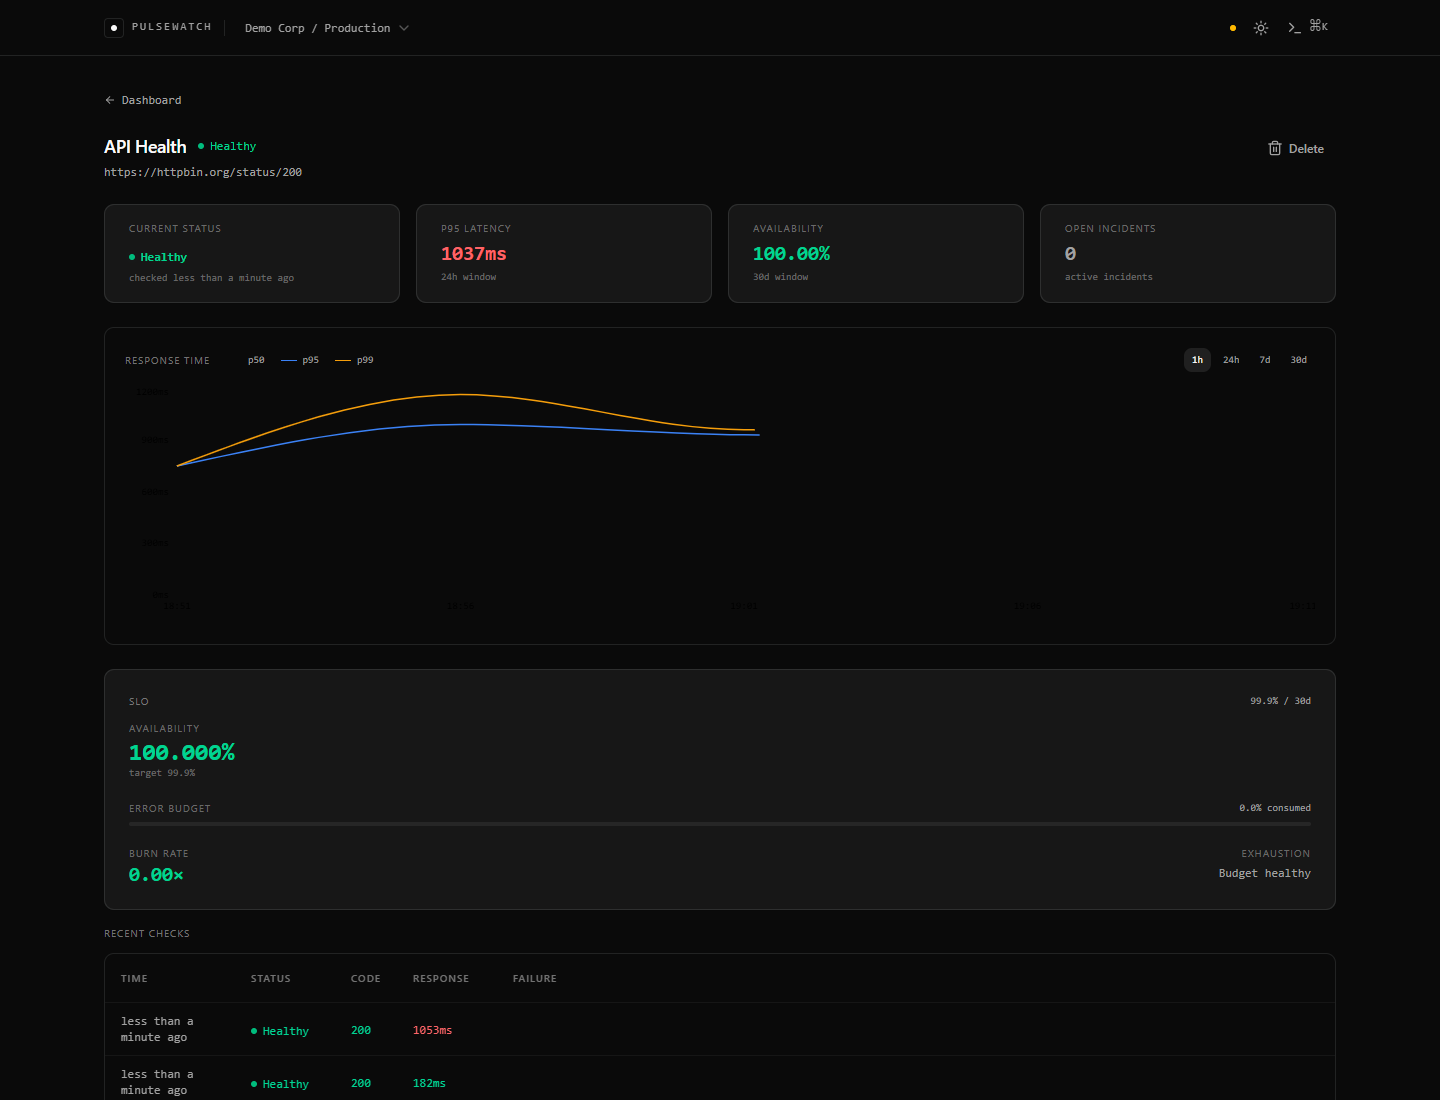
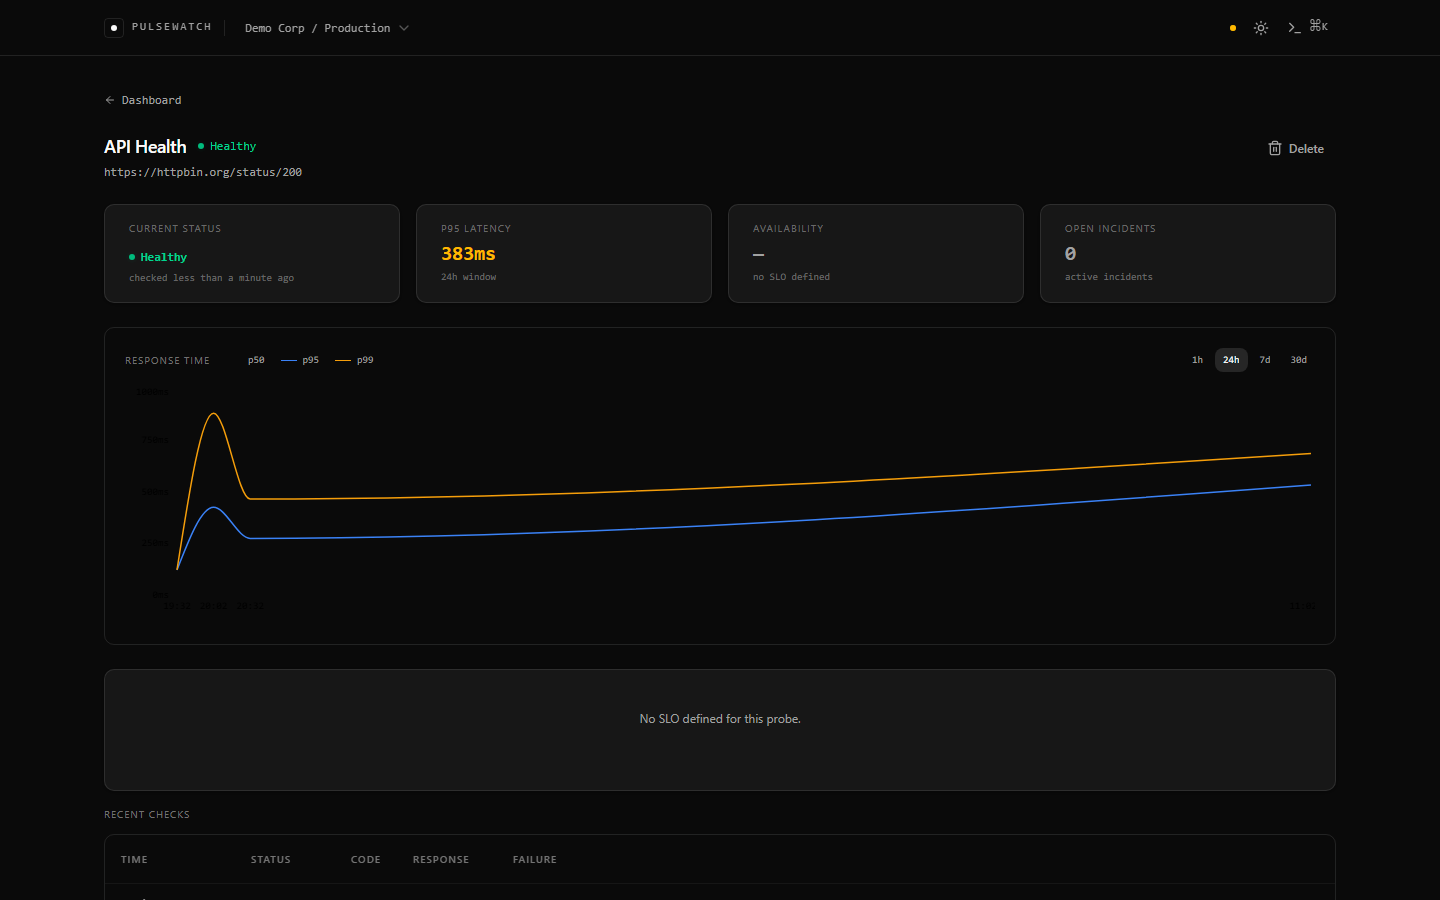
docs: portfolio screenshots from live deployment

diff --git a/client/playwright/scripts/take-screenshots.spec.ts b/client/playwright/scripts/take-screenshots.spec.ts
@@ -1,0 +1,96 @@
+/**
+ * One-off screenshot script — run with:
+ *   npx playwright test --config=playwright.screenshots.config.ts
+ *
+ * Requires the live site at pulsewatch-ui.onrender.com to be up with demo data.
+ * Saves PNG files to docs/screenshots/ (relative to repo root).
+ */
+import { test, chromium, request as playwrightRequest } from '@playwright/test'
+import path from 'path'
+import { mkdir } from 'fs/promises'
+
+const SITE = 'https://pulsewatch-ui.onrender.com'
+const API  = 'https://pulsewatch-v074.onrender.com'
+const OUT  = path.resolve(process.cwd(), '../docs/screenshots')
+
+test.setTimeout(120_000)
+
+test('take all portfolio screenshots', async () => {
+  await mkdir(OUT, { recursive: true })
+
+  // ── 1. Discover org / project / probe IDs via server-side request ─────────
+  const apiCtx = await playwrightRequest.newContext({ baseURL: API })
+
+  const orgs: { id: string }[] = await (await apiCtx.get('/api/v1/organizations')).json()
+  if (!orgs.length) throw new Error('No organizations found on live instance')
+
+  const orgId = orgs[0].id
+  const projects: { id: string }[] = await (
+    await apiCtx.get(`/api/v1/organizations/${orgId}/projects`)
+  ).json()
+  const projId = projects[0].id
+
+  const probes: { id: string; name: string }[] = await (
+    await apiCtx.get(`/api/v1/projects/${projId}/probes`)
+  ).json()
+  console.log('Probes found:', probes.map(p => p.name))
+
+  // Use status page snapshot to identify which probes are Down vs Healthy
+  const snapshot: { probes: { id: string; status: string }[] } = await (
+    await apiCtx.get('/public/status/demo')
+  ).json()
+  const downProbeId   = snapshot.probes.find(p => p.status === 'Down')?.id   ?? probes[probes.length - 1].id
+  const healthyProbeId = snapshot.probes.find(p => p.status === 'Healthy')?.id ?? probes[0].id
+  console.log('Down probe:',    probes.find(p => p.id === downProbeId)?.name)
+  console.log('Healthy probe:', probes.find(p => p.id === healthyProbeId)?.name)
+
+  await apiCtx.dispose()
+
+  // ── 2. Browser setup: inject localStorage before any page load ────────────
+  const browser = await chromium.launch({ headless: true })
+  const ctx = await browser.newContext({
+    viewport: { width: 1440, height: 900 },
+    colorScheme: 'dark',
+  })
+
+  // addInitScript fires before React initialises — localStorage is ready
+  await ctx.addInitScript(({ o, p }: { o: string; p: string }) => {
+    localStorage.setItem('pw-org-id', o)
+    localStorage.setItem('pw-project-id', p)
+  }, { o: orgId, p: projId })
+
+  const page = await ctx.newPage()
+
+  // ── 3. Status page ────────────────────────────────────────────────────────
+  await page.goto(`${SITE}/#/p/demo`, { waitUntil: 'networkidle', timeout: 60_000 })
+  await page.waitForTimeout(1500)
+  await page.screenshot({ path: path.join(OUT, 'status-page.png') })
+  console.log('✓ status-page.png')
+
+  // ── 4. Dashboard ──────────────────────────────────────────────────────────
+  await page.goto(`${SITE}/#/dashboard`, { waitUntil: 'networkidle', timeout: 60_000 })
+  await page.waitForTimeout(2500)
+  await page.screenshot({ path: path.join(OUT, 'dashboard.png') })
+  console.log('✓ dashboard.png')
+
+  // ── 5. Healthy probe detail ───────────────────────────────────────────────
+  await page.goto(`${SITE}/#/probes/${healthyProbeId}`, { waitUntil: 'networkidle', timeout: 60_000 })
+  await page.waitForTimeout(2500)
+  await page.screenshot({ path: path.join(OUT, 'probe-detail.png') })
+  console.log(`✓ probe-detail.png  (${probes.find(p => p.id === healthyProbeId)?.name})`)
+
+  // ── 6. Down probe detail ──────────────────────────────────────────────────
+  await page.goto(`${SITE}/#/probes/${downProbeId}`, { waitUntil: 'networkidle', timeout: 60_000 })
+  await page.waitForTimeout(2500)
+  await page.screenshot({ path: path.join(OUT, 'probe-detail-outage.png') })
+  console.log(`✓ probe-detail-outage.png  (${probes.find(p => p.id === downProbeId)?.name})`)
+
+  // ── 7. Scalar API docs ────────────────────────────────────────────────────
+  await page.goto(`${API}/scalar`, { waitUntil: 'networkidle', timeout: 60_000 })
+  await page.waitForTimeout(2000)
+  await page.screenshot({ path: path.join(OUT, 'api-docs.png') })
+  console.log('✓ api-docs.png')
+
+  await browser.close()
+  console.log(`\nAll screenshots saved to:\n  ${OUT}`)
+})

diff --git a/client/playwright.screenshots.config.ts b/client/playwright.screenshots.config.ts
@@ -1,0 +1,13 @@
+import { defineConfig, devices } from '@playwright/test'
+
+export default defineConfig({
+  testDir: './playwright/scripts',
+  testMatch: 'take-screenshots.spec.ts',
+  timeout: 120_000,
+  workers: 1,
+  reporter: 'list',
+  use: {
+    headless: true,
+    ...devices['Desktop Chrome'],
+  },
+})
